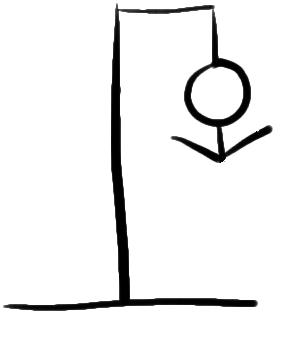
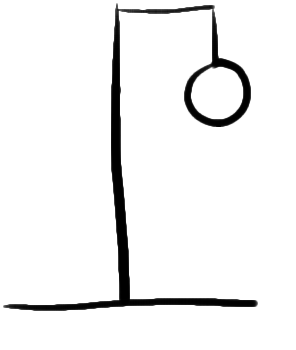
Add files via upload

Changed region(s): [[0.5777, 0.3429, 0.9426, 0.4857]]

diff --git a/main.js b/main.js
@@ -6,14 +6,14 @@ const wordsByCategories = 8
 const numberCatCountrys = 0
 const numberCatDemonyms = 1
 const numberCatCities = 2
+const separation = '_'
 let word
 let categoryName
 let lettersUsed = []
 
-var alphabet = ['a', 'b', 'c', 'd', 'e', 'f', 'g', 'h', 'i', 
-                'j', 'k', 'l', 'm', 'n', 'o', 'p', 'q', 'r', 
-                's', 't', 'u', 'v', 'w', 'x', 'y', 'z'];
-
+const alphabet = ['A', 'B', 'C', 'D', 'E', 'F', 'G', 'H', 'I', 
+                        'J', 'K', 'L', 'M', 'N', 'O', 'P', 'Q', 'R', 
+                        'S', 'T', 'U', 'V', 'W', 'X', 'Y', 'Z'];
 //create variable for username (save this on variable)
 
 function saveUsername() {
@@ -30,39 +30,41 @@ const categories = [
 //Create 3 arrays, each array have 15 words from 1 category
 
 const countrys = [
-  'China',
-  'Germany',
-  'Japan',
-  'Brazil',
-  'Canada',
-  'Australia',
-  'Italy',
-  'Spain',
-  'Kenya'
+  'CHINA',
+  'GERMANY',
+  'JAPAN',
+  'BRAZIL',
+  'CANADA',
+  'AUSTRALIA',
+  'ITALY',
+  'SPAIN',
+  'KENYA'
 ];
 
 
 const demonyms = [
-  'Chinese',       // China
-  'German',        // Germany
-  'Japanese',      // Japan
-  'Canadian',      // Canada
-  'Australian',    // Australia
-  'Italian',       // Italy
-  'Spanish',       // Spain
-  'Kenyan'          // Kenya
+  'CHINESE',
+  'GERMAN',
+  'JAPANESE',
+  'CANADIAN',
+  'AUSTRALIAN',
+  'ITALIAN',
+  'SPANISH',
+  'KENYAN'
 ];
 
 const cities = [
-  'Beijing',            // China
-  'Berlin',             // Germany
-  'Tokyo',              // Japan
-  'Toronto',            // Canada
-  'Melbourne',          // Australia
-  'Florence',           // Italy
-  'Barcelona',          // Spain
-  'Mombasa'            // Kenya
+  'BEIJING',
+  'BERLIN',
+  'TOKYO',
+  'TORONTO',
+  'MELBOURNE',
+  'FLORENCE',
+  'BARCELONA',
+  'MOMBASA'
 ];
+
+
 
 //Create random for categories and later for words
 
@@ -88,14 +90,9 @@ if (randomCategory === numberCatCountrys) {
   categoryName = "City"
 
 }
-word = word.toLowerCase();
-
 
 //Create wordmkask and checkerWord
 let mask = createMask()
-
-
-
 
 //Create alphabet buttons
 
@@ -106,7 +103,6 @@ document.addEventListener('DOMContentLoaded', () => {
   createLettersButtons()
   clickOnLetters()
   
-
 });
 
 function clickOnLetters() {
@@ -119,14 +115,32 @@ function clickOnLetters() {
         console.log("Has hecho clic en la letra:", clickedLetter);
         checkletter(clickedLetter)
         refreshWord()
-        console.log(mistakes)
         updateMistakes()
         deleteLetterButton(clickedLetter)
-      }else{
-
+        checkFinal()
       }
     });
   });
+}
+
+function checkFinal() {
+  if (condition) {
+    
+  }
+
+}
+
+function checkAllLetters() {
+  let completeWord = true
+
+  for (let index = 0; index < mask.length; index++) {
+    if (mask[index] === "_") {
+      completeWord = false
+    }
+    
+  }
+  
+  
 }
 
 function letterIsOnUsedLetters(clickedLetter) {
@@ -147,27 +161,20 @@ function deleteLetterButton(clickedLetter) {
     
   }
 
-
-
 function createMask() {
   
 numberletters = word.length
-var maskFunction = new Array(numberletters)
+let maskFunction = new Array(numberletters)
 for (let i = 0; i < word.length; i++) {
-  maskFunction[i] = "_";
-  
-}
-
+  maskFunction[i] = "_"; 
+} 
   return maskFunction
 }
-
-
 
 function showCategoryHTML() {
   const showCategory = document.querySelector("#categoryName")
   showCategory.textContent = categoryName
 }
-
 
 function createLettersButtons() {
   const alphabetBoard = document.querySelector("#alphabetBoard")
@@ -181,11 +188,6 @@ function createLettersButtons() {
 })
 }
 
-
-
-
-
-
 function updateMistakes() {
   let mistakesImage = document.getElementById("mistakesImage");
   let imageToAppend = new Image();
@@ -195,19 +197,10 @@ function updateMistakes() {
 
 }
 
-
-
-
-
 function checkletter(clickedLetter) {
-  const firstLetter = 0
   let rightLetter = false
   for (let index = 0; index < word.length; index++) {
     if (clickedLetter === word[index]) {
-      //Uppercase the first letter
-      if (index === firstLetter) {
-        clickedLetter = clickedLetter.toUpperCase()
-      }
 
       mask[index] = clickedLetter
       rightLetter = true
@@ -215,7 +208,7 @@ function checkletter(clickedLetter) {
       
   }
   if (rightLetter === false) {
-     
+
     mistakes++;
   }
   lettersUsed.push(clickedLetter)
@@ -227,7 +220,7 @@ function refreshWord() {
   divElement.innerHTML = '';
   // Recorre el array y crea elementos de lista li para cada elemento
   mask.forEach(function(element) {
-      var span = document.createElement("span");
+      let span = document.createElement("span");
       span.innerHTML = element;
       divElement.append(span)
   });

diff --git a/index.html b/index.html
@@ -8,28 +8,24 @@
     <script src="main.js"></script>
 </head>
 <body>
-    <div>
+    <div id="userSection">
         <form id="userNameForm">
             <input type="text" name="userName" id="userName" placeholder="User Name">
             <button type="button" onclick="saveUsername()">Play!</button>
         </form>
     </div>
-    <div 
->
-
+    <div id="gameSection">
+        <div id="categoryName">
+        </div>
+        <div id="wordMask">
+        </div>
+        <div id="alphabetBoard">
+        </div>
+        <div id="mistakesImage">
+        </div>
     </div>
-    <div id="categoryName">
-
+    <div id="resultSection">
+        
     </div>
-    <div id="wordMask">
-
-    </div>
-    <div id="alphabetBoard">
-
-    </div>
-    <div id="mistakesImage">
-        <img src="image/1.png" alt="">
-    </div>
-    
 </body>
 </html>
